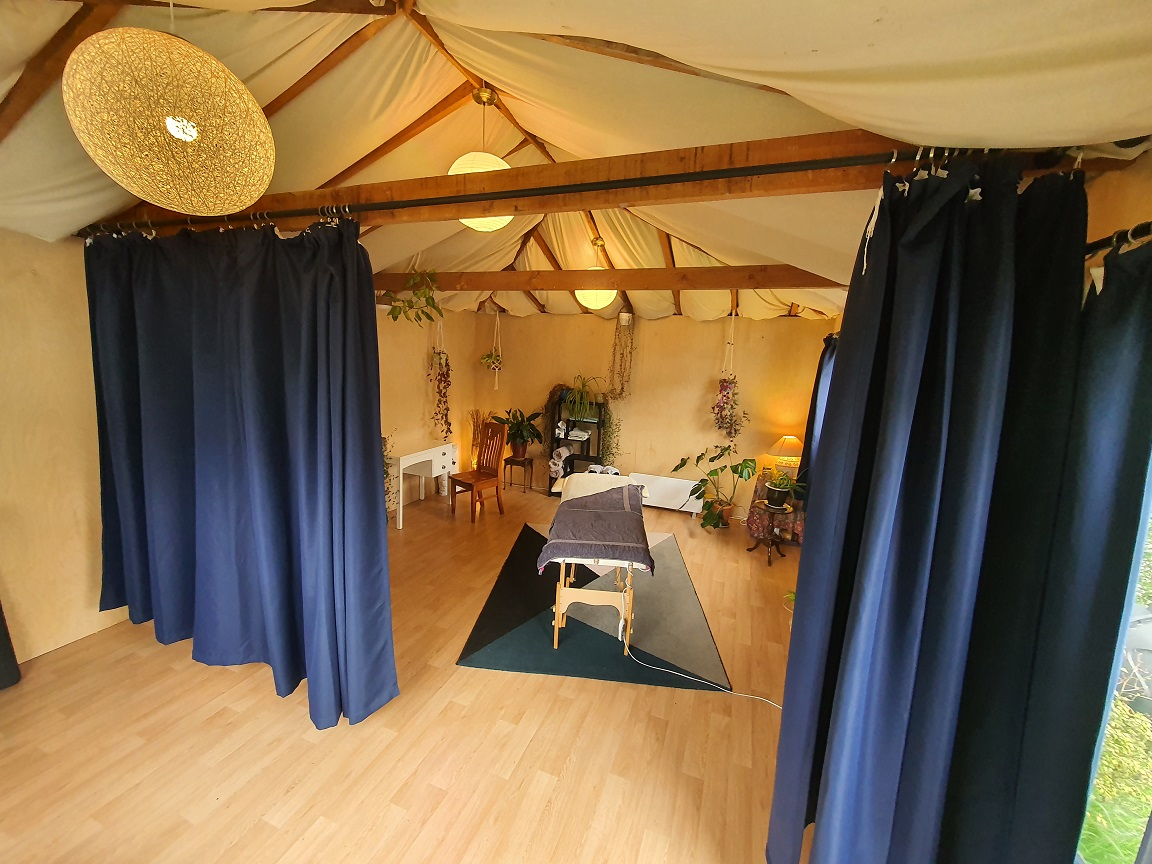
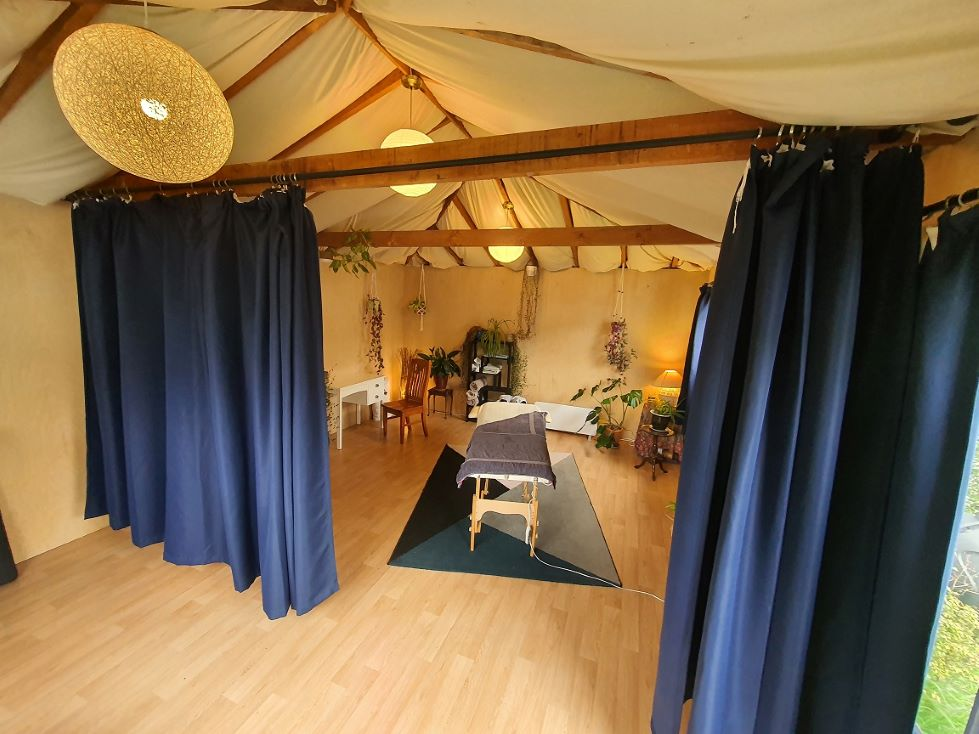
improve images, add prices to home

Changed region(s): [[0.1226, 0.1199, 0.1839, 0.2398], [0.4903, 0.6594, 0.5209, 0.6894], [0.3984, 0.5095, 0.429, 0.5395]]

diff --git a/index.html b/index.html
@@ -77,7 +77,7 @@
             <a class="nav__link current" href="index.html">Home</a>
           </li>
           <li class="nav__item">
-            <a class="nav__link" href="About-Me.html">About me</a>
+            <a class="nav__link" href="About-Me.html">About</a>
           </li>
           <li class="nav__item">
             <a class="nav__link" href="Massage-&-Yoga.html">Massage & Prices</a>
@@ -161,8 +161,6 @@
         <span class="dot" data-slide="4"></span>
         <span class="dot" data-slide="5"></span>
       </div>
-      <!-- <button class="slider__btn slider__btn--left"><span class=slider-button-text>&larr;</span></button>
-      <button class="slider__btn slider__btn--right"><span class=slider-button-text>&rarr;</span></button> -->
     </div>
   </div>
     <section class="section" id="section--1">
@@ -175,28 +173,25 @@
             <p>
             I offer Deep tissue, Relaxation, Sports & Prenatal massage. Most people come to me because I'm strong, I listen, I have a good sense of the perfect pressure, the room is always warm & because they leave feeling lighter than when they came in.</p>
 
-             <p>I use a combination of techniques to help you achieve results, whether that's to:</p>
-              <ul class="under-heading">
-              <li>overcome injury</li><li>reduce pain</li><li>alleviate tension</li><li>or to unwind & relax</li>
+             <p><strong>I use a combination of techniques to help you achieve results, whether that's to:</strong></p>
+              <ul class="under-heading bullet-point-list">
+              <li>overcome injury</li><li>relieve pain</li><li>release soft tissue</li> <li>alleviate tension</li><li>restore freedom of movement</li><li>prepare for or recover from an event</li><li>or to unwind & relax</li>
               </ul>
             
-              <p>Through constantly growing
-            knowledge of how our bodies work & move, I use various techniques
-            to release soft tissue, relieving pain &
-            muscle tension while restoring your freedom of movement.
-          </p>
 
             <p>
-            I'm passionate about helping people achieve a life free from pain. I believe that cultivating balance accross various aspects of our physical & mental well-being help achieve this, including strength, flexibility, breathing, mobility, nutrition, meditation, cardio health & more!</p>
+            I'm passionate about helping people have a pain free life and that cultivating balance accross various aspects of our physical & mental well-being help achieve this, including strength, flexibility, breathing, mobility, nutrition, meditation, cardio health & stress management.</p>
             
             <p>But I'm also imperfect and understand how challenging it is to find that balance with lives outside of maintenance, so I'm interested in figuring out what small things can provide the biggest impact.</p>
 
-            <p>My primary objective is to relieve your tensions so that you don't need me anymore! But of course if you love regular maintenance massages, then you're always welcome!</p>
-            
+            <p><strong>My primary objective is to relieve your tensions so that you don't need me anymore!</strong></p>
+           <p> But of course if you love regular maintenance massages, then you're always welcome!</p>
             <p>
-              I tailor each massage to the individual, and what
-              you need, while also taking into account whether you like deep tissue
-              or prefer a lighter touch.
+             <strong>
+                I tailor each massage to the individual, and what
+                you need, while also taking into account whether you like deep tissue
+                or prefer a lighter touch.
+             </strong>
             </p>
 
             <a
@@ -224,54 +219,31 @@
               <!-- responsive google map embed -->
             </div>
           </div>
+          <h3  class="center">
+            Open hours: <br/>
+          </h3>
           <p class="center">
-            <strong>
-              Open hours: <br/>
-            </strong>
-            Monday 12pm - 7pm<br/>
-            Tuesday 9am - 3pm<br/>
+            Monday 9am - 7pm<br/>
+            Tuesday 9am - 5pm<br/>
             Wednesday 9am - 5pm<br/>
-            Thursday 12pm - 7pm<br/>
-            Friday 9am - 4.30pm<br/>
+            Thursday 9am - 7pm<br/>
+            Friday 9am - 5pm<br/>
           </p> 
-
-          <p class="center slightly-bigger-text"><strong>Find out more:</strong>
+          <h3 class="center">Prices</h3>
+          <p class="center">
+            45 mins $70<br />
+            60 mins $90<br />
+            75 mins $110<br />
+            90 mins $135<br />
+            120 mins $180
           </p>
-          <a
-              href="About-Me.html"
-              ><div class="image-link-div"><img
-              class="image-link"
-              src="Website photos\Andrew\India4.jpg"
-              alt="Andrew in India"
-            /><h2 class="image-link-text">About me</h2>
-          </div></a
-            >
-          <a
-              href="Massage-&-Yoga.html"
-              ><div class="image-link-div"><img
-              class="image-link"
-              src="Website photos\Sports\Massagehands2.JPG"
-              alt="Andrew in India"
-            /><h2 class="image-link-text">Massage & yoga</h2>
-          </div></a
-            >
 
         </div>
       </div>
       <!-- <div class="google-review-rating"> -->
       <script src="https://static.elfsight.com/platform/platform.js" data-use-service-core defer></script>
 <div class="elfsight-app-e536fd01-894d-49c4-a114-2518c253167c"></div>
-
-      <!-- <h3>Other benefits of massage therapy include:</h3>
-      <p>
-        Pain & tension relief <br />
-        Injury prevention <br />
-        Reduced recovery time from an injury or surgery <br />
-        Stress relief <br />
-        Improved flexibility <br />
-        Headache relief <br />
-        Can help reduce depression & anxiety
-      </p> -->
+ 
     </section>
 
     <!-- Online Booking -->

diff --git a/Style.5.css b/Style.5.css
@@ -24,9 +24,9 @@ p {
   margin: 2rem 0 0 0;
 }
 
-li {
+/* li {
   margin: 0 0 0 3em;
-}
+} */
 h1 {
   font-size: 2.5rem;
 }
@@ -113,6 +113,7 @@ a:link {
 }
 .nav__item {
   margin-bottom: 0.5rem;
+  margin-left: 2em;
 }
 .sticky {
   position: fixed;
@@ -523,6 +524,11 @@ a:link {
   line-height: 35px;
 }
 
+.bullet-point-list {
+  margin-left: 3em;
+  font-weight: bold;
+}
+
 /*//////////////// PHONE VIEW ////////////////////*/
 /*//////////////// PHONE VIEW ////////////////////*/
 /*//////////////// PHONE VIEW ////////////////////*/
@@ -637,6 +643,7 @@ a:link {
 
   .nav__item {
     display: block;
+    margin-left: 0;
   }
 
   #mc_embed_signup {

diff --git a/About-Me.html b/About-Me.html
@@ -116,7 +116,6 @@
     <div class="row column-reverse" >
       
       <div class="column">
-        <h3 style="font-size:1.1rem">So you want to know a bit more about me eh? And fair enough too!</h3>
         <h3 style="font-size: 1.3rem;">
           <strong
             >I'm passionate about pain-free living and creating habits to

diff --git a/Massage-&-Yoga.html b/Massage-&-Yoga.html
@@ -253,7 +253,7 @@
       <div class="column image-column">
         <img
           class="col-img"
-          src="Website photos\Sports\Andrew Bolton Sports Massage(sm).JPG"
+          src="Website photos\Sports\Andrew Bolton Sports Massage(sm).jpg"
           alt="Calm relaxing massage"
         />
       </div>
